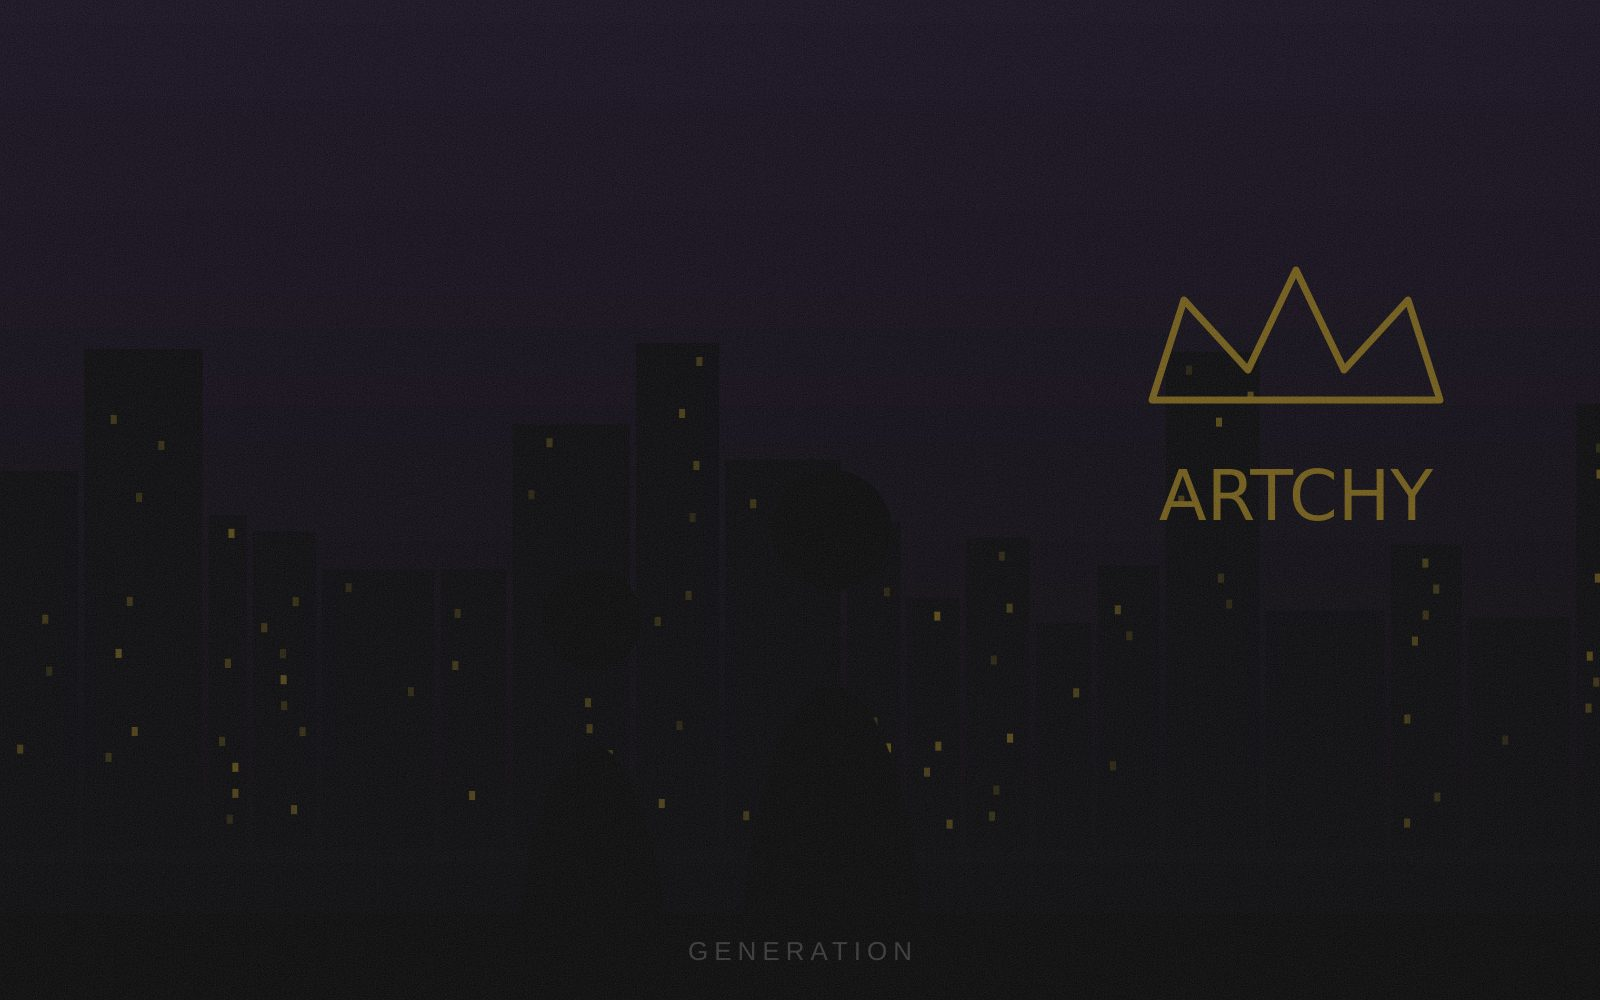
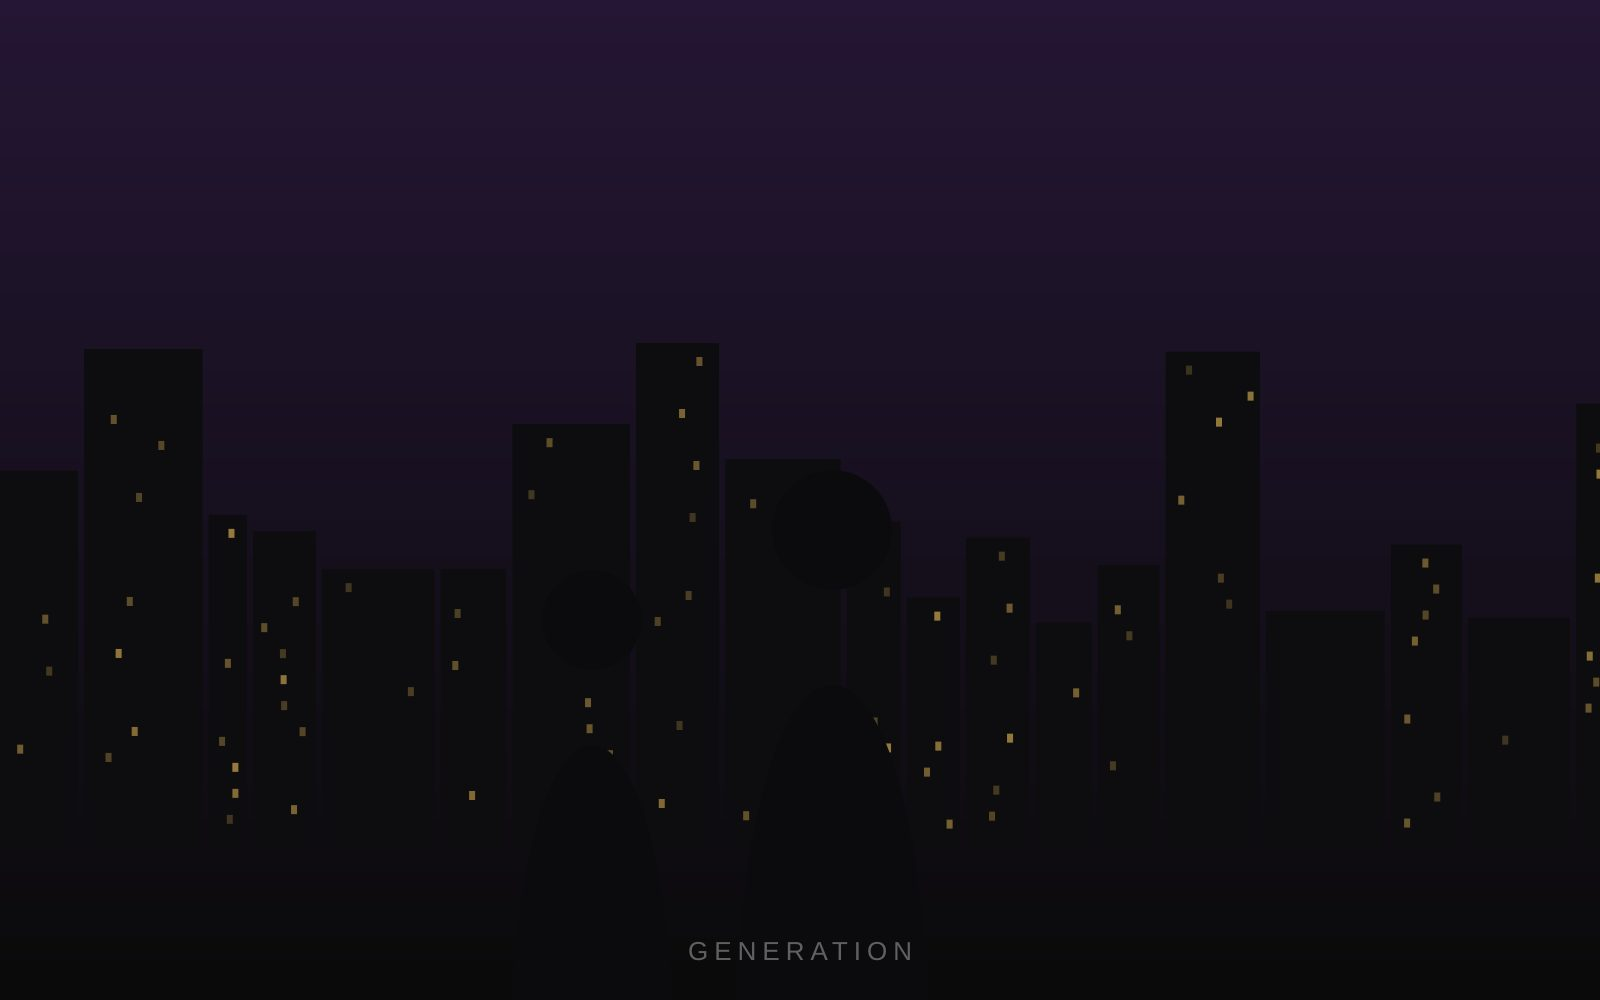
Homepage 1-op-1 naar ontwerp: exacte tokens en sectie-details
- Tokens exact: goud #C9A24B, ivoor #F2EFE9, grijs #9A968E; koppen
  line-height 0.95; labels 11.5px caps met 0.15em tracking; alle
  knoppen caps met tracking, outline vult bij hover; nieuwe dark-variant
- Nav: actieve pagina in goud (aria-current), desktop en mobiel menu
- Hero naar ~85svh, beeld is de hero, gradient-overlay onderaan
- Featured collections: kop klein-caps links, pijl-chip rechtsboven op
  elke kaart, dunne lichte rand, zware caps-namen
- Drop-sectie: grotere gouden countdown-cijfers en zachte gouden
  spotlight-gloed achter de hoodie (horizontaal geclipt tegen overflow)
- Creators: middenkolom (TAJI) breder via 1fr/1.2fr/1fr-grid
- Generation: kroon-doodle + ARTCHY-signatuur nu als SVG-overlay in
  code; generation.jpg opnieuw gegenereerd zonder ingebakken kroon
- Join-sectie nu ivoren balk met zwarte knop en wit invoerveld
- Footer-menu aangevuld met Contact
- QA herhaald op 375/768/1440: spotlight-gloed veroorzaakte hscroll op
  mobiel/tablet — gefixt; daarna overal 0 overflow, build en lint schoon

Claude-Session: https://claude.ai/code/session_012JVUBph35NgPq1sz3LpLVK

Changed region(s): [[0.7188, 0.279, 0.9062, 0.403], [0.7188, 0.465, 0.9062, 0.527], [0.4375, 0.93, 0.5, 0.961]]

diff --git a/artchy/app/page.tsx b/artchy/app/page.tsx
@@ -1,6 +1,13 @@
 import Image from "next/image";
 import Link from "next/link";
-import { ArrowRight, Pencil, Lock, Shirt, User } from "lucide-react";
+import {
+  ArrowRight,
+  ArrowUpRight,
+  Pencil,
+  Lock,
+  Shirt,
+  User,
+} from "lucide-react";
 
 import { Countdown } from "@/components/home/countdown";
 import { NewsletterForm } from "@/components/home/newsletter-form";
@@ -59,8 +66,8 @@ export default function Home() {
     <>
       <SiteHeader />
       <main className="flex-1">
-        {/* 3. Fullscreen hero */}
-        <section className="relative min-h-[100svh]">
+        {/* 3. Hero — het beeld ís de hero, geen tekst eroverheen */}
+        <section className="relative min-h-[85svh]">
           <Image
             src="/hero.jpg"
             alt="Man met TAJI-hoodie voor de skyline bij avondlicht"
@@ -78,7 +85,9 @@ export default function Home() {
         {/* 4. Featured collections */}
         <section className="mx-auto w-full max-w-6xl px-4 py-16 sm:px-6">
           <div className="flex flex-wrap items-baseline justify-between gap-x-6 gap-y-2">
-            <h2 className="text-heading text-snow">Featured collections</h2>
+            <h2 className="font-display text-xl uppercase text-snow sm:text-2xl">
+              Featured collections
+            </h2>
             <Link
               href="/shop"
               className="label flex items-center gap-2 text-gold hover:text-snow"
@@ -92,8 +101,14 @@ export default function Home() {
               <Reveal key={collection.handle} delay={i * 60}>
                 <Link
                   href={`/shop?type=${collection.handle}`}
-                  className="group block h-full border border-line bg-night p-4"
+                  className="group relative block h-full border border-snow/15 bg-night p-4 transition-colors hover:border-gold/60"
                 >
+                  <span
+                    className="absolute right-3 top-3 z-10 flex size-8 items-center justify-center border border-snow/30 bg-coal/70 text-snow transition-colors group-hover:border-gold group-hover:text-gold"
+                    aria-hidden
+                  >
+                    <ArrowUpRight className="size-4" />
+                  </span>
                   <div className="relative aspect-square w-full overflow-hidden">
                     <Image
                       src={collection.image}
@@ -103,7 +118,7 @@ export default function Home() {
                       className="object-cover transition-opacity duration-500 group-hover:opacity-80"
                     />
                   </div>
-                  <h3 className="mt-4 text-subheading text-snow">
+                  <h3 className="mt-4 font-display text-2xl uppercase text-snow">
                     {collection.name}
                   </h3>
                   <p className="mt-1 text-sm text-ash">{collection.tagline}</p>
@@ -142,7 +157,7 @@ export default function Home() {
         </section>
 
         {/* 6. Limited drop + countdown */}
-        <section className="mx-auto grid w-full max-w-6xl items-center gap-10 px-4 py-20 sm:px-6 lg:grid-cols-2">
+        <section className="mx-auto grid w-full max-w-6xl items-center gap-10 overflow-x-clip px-4 py-20 sm:px-6 lg:grid-cols-2">
           <div className="min-w-0">
             <p className="label text-gold">Limited release</p>
             <h2 className="mt-3 text-heading text-snow">
@@ -160,14 +175,25 @@ export default function Home() {
               </Button>
             </Link>
           </div>
-          <div className="relative aspect-square w-full overflow-hidden border border-line bg-night">
-            <Image
-              src="/drop-hoodie.jpg"
-              alt="De limited drop hoodie met TAJI-artwork"
-              fill
-              sizes="(min-width: 1024px) 50vw, 100vw"
-              className="object-cover"
+          <div className="relative aspect-square w-full">
+            {/* Zachte spotlight-gloed achter de hoodie */}
+            <div
+              className="absolute -inset-8 -z-10"
+              style={{
+                background:
+                  "radial-gradient(circle at 50% 45%, rgba(201,162,75,0.18), transparent 65%)",
+              }}
+              aria-hidden
             />
+            <div className="relative h-full w-full overflow-hidden border border-snow/10 bg-night">
+              <Image
+                src="/drop-hoodie.jpg"
+                alt="De limited drop hoodie met TAJI-artwork"
+                fill
+                sizes="(min-width: 1024px) 50vw, 100vw"
+                className="object-cover"
+              />
+            </div>
           </div>
         </section>
 
@@ -183,7 +209,7 @@ export default function Home() {
               View all creators <ArrowRight className="size-4" aria-hidden />
             </Link>
           </div>
-          <div className="mt-8 grid grid-cols-1 items-start gap-6 lg:grid-cols-3">
+          <div className="mt-8 grid grid-cols-1 items-start gap-6 lg:grid-cols-[1fr_1.2fr_1fr]">
             {/* Josh */}
             <Reveal>
               <article className="border border-line bg-night">
@@ -289,23 +315,49 @@ export default function Home() {
             <div className="relative aspect-video w-full overflow-hidden border border-line bg-night">
               <Image
                 src="/generation.jpg"
-                alt="Twee generaties voor de skyline, met gouden kroon en ARTCHY-signatuur"
+                alt="Twee generaties voor de skyline"
                 fill
                 sizes="(min-width: 1024px) 50vw, 100vw"
                 className="object-cover"
               />
+              {/* Gouden kroon-doodle + ARTCHY-signatuur als SVG-overlay */}
+              <svg
+                viewBox="0 0 200 120"
+                className="absolute right-4 top-4 w-2/5 max-w-56 text-gold"
+                aria-hidden
+              >
+                <path
+                  d="M 30 55 L 40 25 L 65 45 L 85 15 L 105 45 L 130 25 L 140 55 Z"
+                  fill="none"
+                  stroke="currentColor"
+                  strokeWidth="4"
+                  strokeLinejoin="round"
+                  strokeLinecap="round"
+                />
+                <text
+                  x="85"
+                  y="95"
+                  textAnchor="middle"
+                  fill="currentColor"
+                  fontSize="28"
+                  fontStyle="italic"
+                  fontFamily="cursive"
+                >
+                  ARTCHY
+                </text>
+              </svg>
             </div>
           </div>
         </section>
 
-        {/* 9. Join the community */}
-        <section className="border-t border-line">
+        {/* 9. Join the community — ivoren balk */}
+        <section className="bg-bone text-coal">
           <div className="mx-auto flex w-full max-w-6xl flex-wrap items-center justify-between gap-6 px-4 py-12 sm:px-6">
             <div className="min-w-0">
-              <h2 className="text-subheading text-snow">
+              <h2 className="font-display text-xl uppercase sm:text-2xl">
                 Join the Artchy community
               </h2>
-              <p className="mt-1 text-sm text-ash">
+              <p className="mt-1 text-sm text-coal/70">
                 Be the first to access drops, exclusive releases, and artist
                 stories.
               </p>

diff --git a/artchy/components/site-header.tsx b/artchy/components/site-header.tsx
@@ -1,11 +1,13 @@
 "use client";
 
 import Link from "next/link";
+import { usePathname } from "next/navigation";
 import { useEffect, useState } from "react";
 import { Menu, Search, User, X } from "lucide-react";
 
 import { CartTrigger } from "@/components/cart/cart-trigger";
 import { SandboxBanner } from "@/components/sandbox-banner";
+import { cn } from "@/lib/utils";
 
 const NAV = [
   { href: "/shop", label: "Shop" },
@@ -22,6 +24,9 @@ const NAV = [
  */
 export function SiteHeader() {
   const [menuOpen, setMenuOpen] = useState(false);
+  const pathname = usePathname();
+  const isActive = (href: string) =>
+    pathname === href || pathname.startsWith(`${href}/`);
 
   // Sluiten op Escape; links sluiten het menu zelf via onClick.
   useEffect(() => {
@@ -48,7 +53,11 @@ export function SiteHeader() {
               <Link
                 key={item.href}
                 href={item.href}
-                className="label text-snow transition-colors hover:text-gold"
+                aria-current={isActive(item.href) ? "page" : undefined}
+                className={cn(
+                  "label transition-colors hover:text-gold",
+                  isActive(item.href) ? "text-gold" : "text-snow",
+                )}
               >
                 {item.label}
               </Link>
@@ -107,7 +116,11 @@ export function SiteHeader() {
               <li key={item.href}>
                 <Link
                   href={item.href}
-                  className="label block py-3 text-snow transition-colors hover:text-gold"
+                  aria-current={isActive(item.href) ? "page" : undefined}
+                  className={cn(
+                    "label block py-3 transition-colors hover:text-gold",
+                    isActive(item.href) ? "text-gold" : "text-snow",
+                  )}
                   onClick={() => setMenuOpen(false)}
                 >
                   {item.label}

diff --git a/artchy/app/globals.css b/artchy/app/globals.css
@@ -9,10 +9,10 @@
   --coal: #0a0a0a; /* pagina-achtergrond */
   --night: #141414; /* kaarten, secundaire donkere vlakken */
   --line: #2a2a2a; /* borders/dividers op donker */
-  --bone: #f2efea; /* lichte secties ("How art becomes fashion") */
-  --gold: #c9a227; /* accent: labels, countdown, CTA's */
+  --bone: #f2efe9; /* lichte secties ("How art becomes fashion") */
+  --gold: #c9a24b; /* accent: labels, countdown, CTA's */
   --snow: #ffffff;
-  --ash: #a3a3a3; /* gedempte tekst op donker */
+  --ash: #9a968e; /* gedempte tekst op donker */
 
   --background: var(--coal);
   --foreground: var(--snow);
@@ -51,13 +51,14 @@ h3 {
   font-family: var(--font-anton), Impact, sans-serif;
   text-transform: uppercase;
   letter-spacing: 0.01em;
+  line-height: 0.95;
 }
 
-/* Kleine uppercase-labels met ruime tracking, zoals in het model */
+/* Eyebrows/labels/menu: 11-12px caps met letterspacing 0.15em */
 .label {
-  font-size: 0.6875rem;
+  font-size: 0.71875rem;
   text-transform: uppercase;
-  letter-spacing: 0.18em;
+  letter-spacing: 0.15em;
 }
 
 /* Scroll-reveal: opacity + 12px translate, 400ms, één keer */

diff --git a/artchy/components/ui/button.tsx b/artchy/components/ui/button.tsx
@@ -4,13 +4,14 @@ import { cva, type VariantProps } from "class-variance-authority";
 import { cn } from "@/lib/utils";
 
 const buttonVariants = cva(
-  "inline-flex items-center justify-center gap-2 whitespace-nowrap text-sm font-medium transition-colors disabled:pointer-events-none disabled:opacity-50 focus-visible:outline-2 focus-visible:outline-offset-2 focus-visible:outline-gold",
+  "inline-flex items-center justify-center gap-2 whitespace-nowrap text-xs font-medium uppercase tracking-[0.15em] transition-colors disabled:pointer-events-none disabled:opacity-50 focus-visible:outline-2 focus-visible:outline-offset-2 focus-visible:outline-gold",
   {
     variants: {
       variant: {
         default: "bg-gold text-coal hover:bg-gold/90",
         secondary: "bg-night text-snow border border-line hover:border-gold",
         outline: "border border-snow bg-transparent text-snow hover:bg-snow hover:text-coal",
+        dark: "bg-coal text-snow hover:bg-coal/85",
         ghost: "text-snow hover:text-gold",
       },
       size: {

diff --git a/artchy/components/home/newsletter-form.tsx b/artchy/components/home/newsletter-form.tsx
@@ -15,7 +15,7 @@ export function NewsletterForm() {
   if (joined) {
     return (
       <p
-        className="flex items-center gap-2 text-sm text-gold"
+        className="flex items-center gap-2 text-sm text-coal"
         role="status"
         data-placeholder="true"
       >
@@ -43,9 +43,9 @@ export function NewsletterForm() {
         type="email"
         required
         placeholder="Enter your email"
-        className="h-11 min-w-0 flex-1 border border-line bg-night px-4 text-sm text-snow placeholder:text-ash"
+        className="h-11 min-w-0 flex-1 border border-coal/30 bg-white px-4 text-sm text-coal placeholder:text-coal/50"
       />
-      <Button type="submit" variant="outline" className="shrink-0 gap-2">
+      <Button type="submit" variant="dark" className="shrink-0 gap-2">
         Join the community <ArrowRight className="size-4" aria-hidden />
       </Button>
     </form>

diff --git a/artchy/components/site-footer.tsx b/artchy/components/site-footer.tsx
@@ -44,6 +44,7 @@ const MENU = [
   { href: "/taji", label: "Taji" },
   { href: "/how-it-works", label: "How it Works" },
   { href: "/about", label: "About" },
+  { href: "/about", label: "Contact" },
 ];
 
 const INFO = [
@@ -71,7 +72,7 @@ export function SiteFooter() {
           <p className="label mb-4 text-snow">Menu</p>
           <ul className="space-y-2 text-sm text-ash">
             {MENU.map((item) => (
-              <li key={item.href}>
+              <li key={item.label}>
                 <Link href={item.href} className="hover:text-gold">
                   {item.label}
                 </Link>

diff --git a/artchy/components/home/countdown.tsx b/artchy/components/home/countdown.tsx
@@ -44,7 +44,7 @@ export function Countdown({ target }: { target: string }) {
     >
       {cells.map((cell) => (
         <div key={cell.label} className="min-w-0">
-          <p className="font-display text-2xl text-gold tabular-nums sm:text-3xl">
+          <p className="font-display text-3xl text-gold tabular-nums sm:text-4xl">
             {cell.value === null ? "--" : String(cell.value).padStart(2, "0")}
           </p>
           <p className="label mt-1 text-ash">{cell.label}</p>
